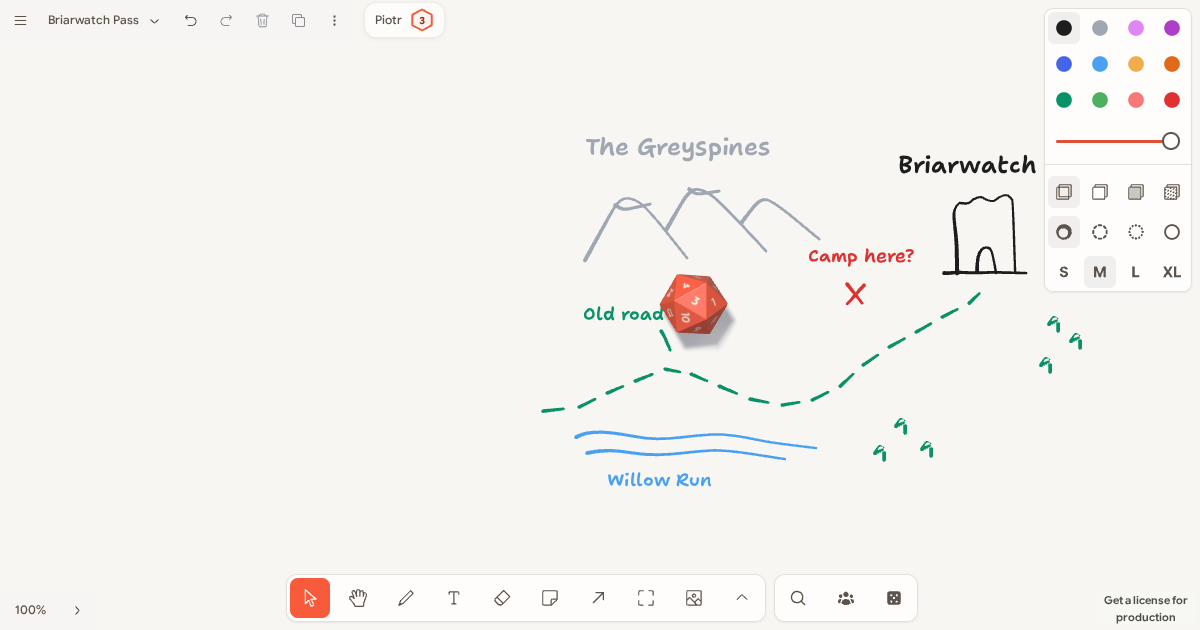
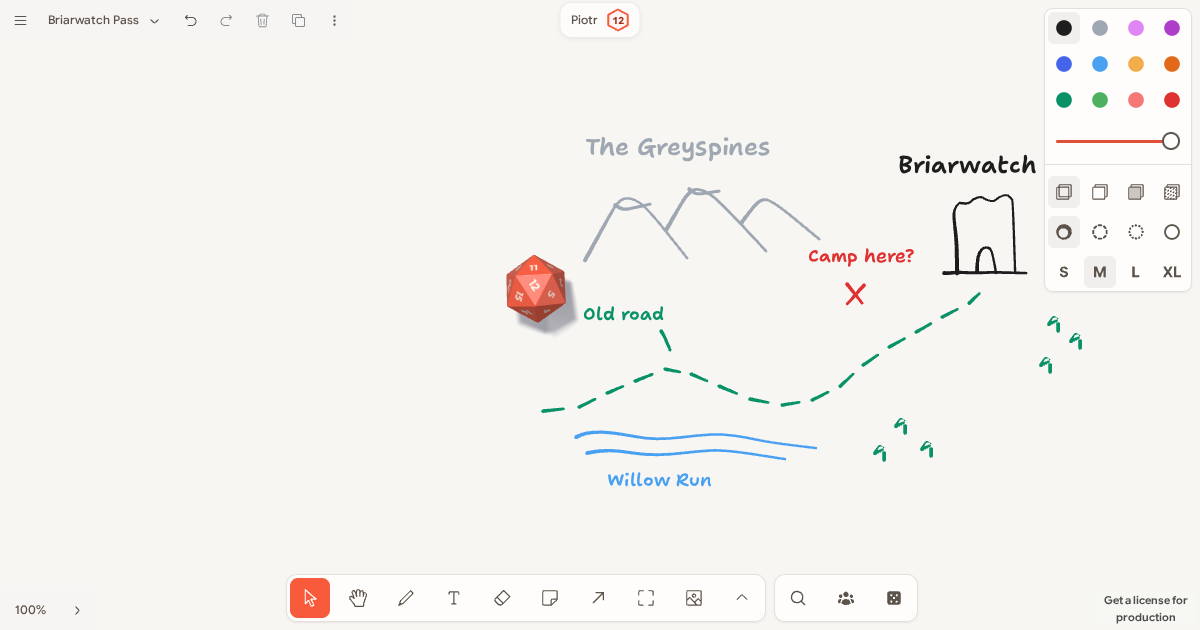
Center roll results on wide boards

diff --git a/client/src/dice-stage.tsx b/client/src/dice-stage.tsx
@@ -18,6 +18,7 @@ const GIVE_UP_MS = 12_000;
 const GAP = 8;
 // Narrower than this beside the menu, the toast drops below it instead.
 const ROW_MIN_WIDTH = 120;
+const WIDE_BOARD_WIDTH = 1024;
 // The dice and the total come first: the roller's name shows only where
 // every die fits beside it and the name keeps this much of itself (or all
 // of a shorter one). The roll log and the announcement always give it.
@@ -54,46 +55,54 @@ const FADES: Record<Overflow, string> = {
   start: "mask-[linear-gradient(to_right,transparent,black_1rem)]",
 };
 
-type Place = { below: number; beside: boolean; left: number; top: number; width: number };
+type Place = {
+  alignment: "below" | "beside" | "center";
+  below: number;
+  left: number;
+  top: number;
+  width: number;
+};
 
 const boxOf = (selector: string): DOMRect | null => {
   const box = document.querySelector(selector)?.getBoundingClientRect();
   return box === undefined || box.width === 0 ? null : box;
 };
 
-// Beside tldraw's top-left controls (the main menu, and the page menu on a
-// board of several pages), centred on the menu button, up to the controls
-// tldraw keeps at the top right of a wide screen, or the screen's edge.
-// Where that row is too narrow, below the controls instead. `below` is
-// where the toast and the controls end, for the tray.
-function placeBesideMenu(height: number): Place {
+// On wide boards the toast centres on the viewport while leaving room for
+// both sides' controls. On narrower boards it sits beside or below the menu.
+// `below` is where the toast and controls end, for the dice tray.
+function placeToast(height: number): Place {
   const zone = boxOf(".tlui-menu-zone") ?? new DOMRect();
   const button = boxOf("[data-testid='main-menu.button']") ?? zone;
   const publicControls = boxOf("[data-public-board-controls]");
+  const viewportWidth = document.documentElement.clientWidth;
   const sideRight = Math.min(
-    document.documentElement.clientWidth,
+    viewportWidth,
     ...[...document.querySelectorAll(".tlui-layout__top__right > *")]
       .map((element) => element.getBoundingClientRect())
       .filter((box) => box.width > 0)
       .map((box) => box.left),
   );
   const right = Math.min(sideRight, publicControls?.left ?? sideRight);
+  const center = viewportWidth / 2;
+  const centeredWidth = 2 * (Math.min(center - zone.right, right - center) - GAP);
+  const centered = viewportWidth >= WIDE_BOARD_WIDTH && centeredWidth >= ROW_MIN_WIDTH;
   const besideWidth = right - zone.right - 2 * GAP;
   const beside = besideWidth >= ROW_MIN_WIDTH;
   const rowBottom = Math.max(zone.bottom, publicControls?.bottom ?? 0);
   const top = beside ? button.top + (button.height - height) / 2 : rowBottom + GAP;
   return {
+    alignment: centered ? "center" : beside ? "beside" : "below",
     below: Math.max(rowBottom, top + height),
-    beside,
-    left: beside ? zone.right + GAP : GAP,
+    left: centered ? center : beside ? zone.right + GAP : GAP,
     top: Math.round(top),
-    width: beside ? besideWidth : sideRight - 2 * GAP,
+    width: centered ? centeredWidth : beside ? besideWidth : sideRight - 2 * GAP,
   };
 }
 
 const samePlace = (a: Place | null, b: Place) =>
   a !== null &&
-  a.beside === b.beside &&
+  a.alignment === b.alignment &&
   a.left === b.left &&
   a.top === b.top &&
   a.width === b.width &&
@@ -173,7 +182,7 @@ function ResultToast({
     const dice = row.current;
     if (element === null || dice === null) return;
     const measure = () => {
-      const next = placeBesideMenu(element.offsetHeight);
+      const next = placeToast(element.offsetHeight);
       if (!samePlace(lastPlace.current, next)) {
         lastPlace.current = next;
         setPlace(next);
@@ -220,7 +229,7 @@ function ResultToast({
     <button
       aria-label={copy.close}
       className={`group fixed z-60 flex h-9 items-center rounded-xl border border-border/60 bg-bg-secondary/90 px-2.5 text-foreground shadow-toast backdrop-blur-md focus-visible:outline-2 focus-visible:outline-offset-2 focus-visible:outline-border-focus ${shown && placed ? "" : "invisible"}`}
-      data-dice-toast={place?.beside === false ? "below" : "beside"}
+      data-dice-toast={place?.alignment ?? "beside"}
       data-resting={resting ? "" : undefined}
       data-roller={roll.name}
       onClick={close}
@@ -229,6 +238,8 @@ function ResultToast({
         left: place?.left ?? 0,
         maxWidth: place?.width,
         top: `max(${place?.top ?? 0}px, env(safe-area-inset-top))`,
+        translate: place?.alignment === "center" ? "-50%" : undefined,
+        width: place?.alignment === "center" ? "max-content" : undefined,
       }}
       type="button"
     >

diff --git a/e2e/tests/throw.spec.ts b/e2e/tests/throw.spec.ts
@@ -272,9 +272,8 @@ const boxOf = async (target: Locator): Promise<Box> => (await target.boundingBox
 // screen undo, redo and the rest.
 const menuZone = (page: Page): Locator => page.locator(".tlui-menu-zone");
 
-// The toast drops in to the right of tldraw's top-left controls, centred on
-// the menu button's row, and never moves them or covers them.
-async function expectBesideMenu(page: Page): Promise<Box> {
+// The toast shares the menu button's row without moving or covering it.
+async function expectInMenuRow(page: Page): Promise<Box> {
   const button = await boxOf(page.getByTestId("main-menu.button"));
   const zone = await boxOf(menuZone(page));
   // Once its entrance is over.
@@ -285,9 +284,15 @@ async function expectBesideMenu(page: Page): Promise<Box> {
     })
     .toBe(0);
   const box = await boxOf(toast(page));
+  expect(overlap(box, zone)).toBe(false);
+  return box;
+}
+
+async function expectBesideMenu(page: Page): Promise<Box> {
+  const box = await expectInMenuRow(page);
+  const zone = await boxOf(menuZone(page));
   expect(box.x).toBeGreaterThanOrEqual(zone.x + zone.width);
   expect(box.x + box.width).toBeLessThanOrEqual(page.viewportSize()!.width);
-  expect(overlap(box, zone)).toBe(false);
   return box;
 }
 
@@ -468,9 +473,9 @@ test("the tray comes back after a lost context and follows a resize", async ({ p
 });
 
 // tldraw's page menu shares the top row with the main menu, and its name
-// sets how wide that corner is; on a wide screen tldraw keeps its style
-// panel at the top right. The toast fits between, and the menus stay put.
-test("the toast fits between the page menu and the style panel, on phones and a desktop", async ({
+// sets how wide that corner is. On desktop the toast centres on the screen
+// while fitting between that corner and tldraw's style panel.
+test("the toast centres on desktop and fits beside the page menu on phones", async ({
   browser,
   page,
 }) => {
@@ -493,7 +498,10 @@ test("the toast fits between the page menu and the style panel, on phones and a 
     const atRest = await boxOf(menuZone(screen));
     await roll(screen, [20, 6]);
     await expect(toast(screen)).toBeVisible();
-    const box = await expectBesideMenu(screen);
+    const box = await (name === "desktop" ? expectInMenuRow(screen) : expectBesideMenu(screen));
+    if (name === "desktop") {
+      expect(box.x + box.width / 2).toBeCloseTo(screen.viewportSize()!.width / 2, 0);
+    }
     expect(await boxOf(menuZone(screen))).toEqual(atRest);
     for (const control of await screen.locator(".tlui-layout__top__right > *").all()) {
       expect(overlap(box, await boxOf(control))).toBe(false);
